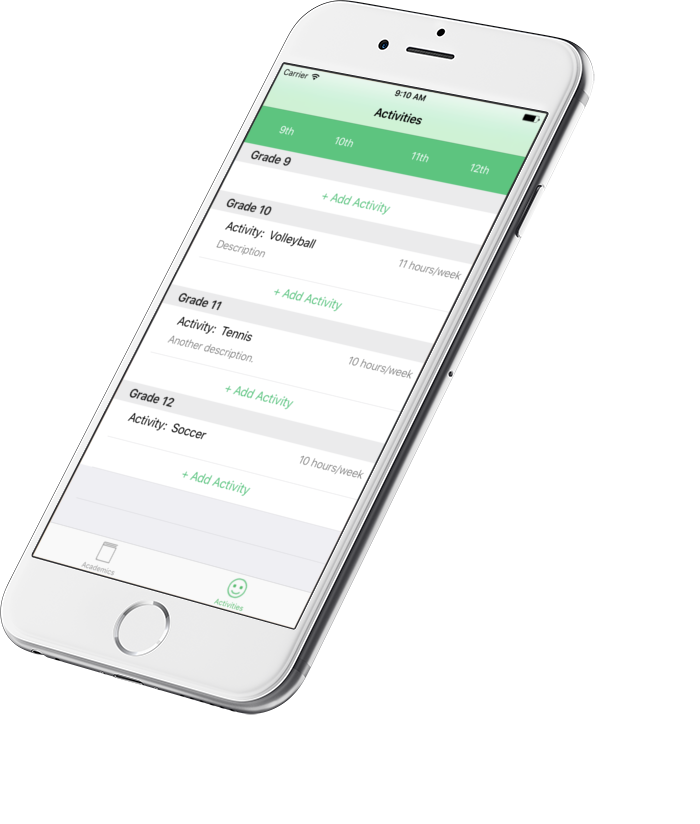
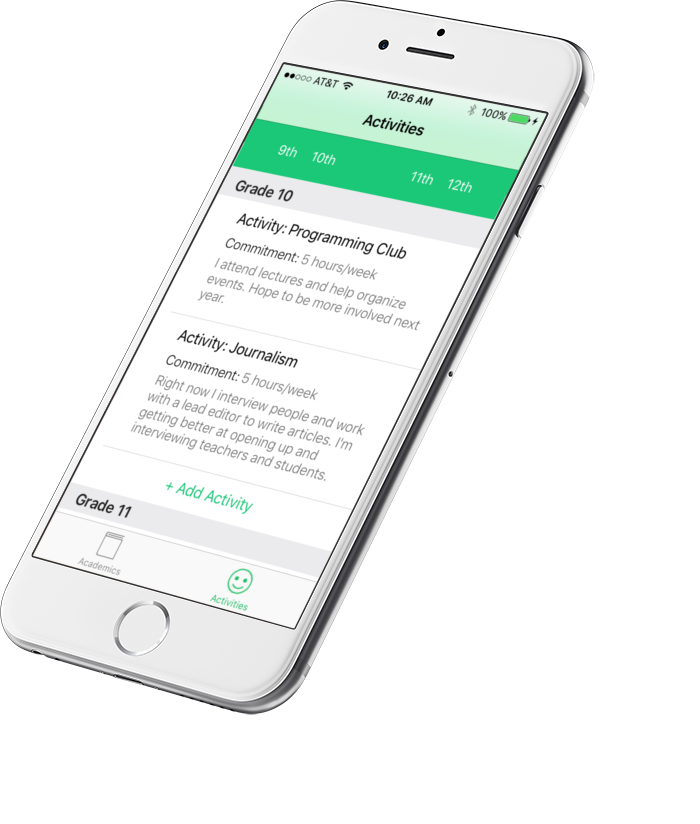
Rev 0.005
Commented all irrelevant sections and update all screenshots.

diff --git a/index-pq.html b/index-pq.html
@@ -166,9 +166,9 @@
 						
 						<div class='screens-mockup' >
 							<img class='phone wow fadeInUp' data-wow-duration='.8s' data-wow-delay='.2s' src='img/mockup2-phone.png' alt>
-							<img class='screen wow fadeIn' data-wow-delay='1s' src='img/mockup2-screen1.png' alt>
-							<img class='screen wow fadeIn' data-wow-delay='1.4s' src='img/mockup2-screen2.png' alt>
-							<img class='screen wow fadeIn' data-wow-delay='1.8s' src='img/mockup2-screen3.png' alt>
+							<img class='screen wow fadeIn' data-wow-delay='1s' src='img/mockup2-pq-screen1.png' alt>
+							<img class='screen wow fadeIn' data-wow-delay='1.4s' src='img/mockup2-pq-screen2.png' alt>
+							<img class='screen wow fadeIn' data-wow-delay='1.8s' src='img/mockup2-pq-screen3.png' alt>
 						</div>
 						
 					</div>
@@ -177,13 +177,12 @@
 						
 						<div class='mockup-text' >
 							
-							<span class='font-alt wow fadeInUp' data-wow-delay='.2s' >Private & </span>
+							<span class='font-alt wow fadeInUp' data-wow-delay='.2s' >Convenient & </span>
 							
 							<h2 class='wow fadeInUp' data-wow-delay='.4s' >Comprehensive</h2>
 							
 							<p class='wow fadeInUp' data-wow-delay='.6s' >
-								Keep records of your academic and extracurricular activities as a student. Plan your courses to meet your graduation requirements. High school students will find this data very useful when preparing for their college application.
-								Password protected access to your data for privacy.
+								Keep records of your academic and extracurricular activities as a high-school student. Plan your courses to meet your graduation requirements. Students will find this data very useful when preparing for their college application. It's easy to add new course or new activity.
 							</p>
 							
 							<!-- <a href='#' class='btn-custom arrow-btn wow fadeInUp' data-wow-delay='.8s' >
@@ -202,6 +201,7 @@
 		<!--======================================================
 			Mockups Section 2
 		======================================================-->
+		<!--
 		<section id='features-2' class='mockup-section section-2' >
 			<div class='container' >
 				<div class='row' >
@@ -218,18 +218,18 @@
 						
 						<div class='mockup-text' >
 							
-							<span class='font-alt wow fadeInUp' data-wow-delay='.2s' >Convenient & </span>
+							<span class='font-alt wow fadeInUp' data-wow-delay='.2s' >Private & </span>
 							
 							<h2 class='wow fadeInUp' data-wow-delay='.4s' >Always Available</h2>
 							
 							<p class='wow fadeInUp' data-wow-delay='.6s' >
-								Your data travels with you in your mobile device. Your activity records can be entered and accessed anytime and anywhere with just few taps.
+								Your data is password protected for privacy. Your data travels with you in your mobile device. Your activity records can be entered and accessed anytime and anywhere with just few taps.
 							</p>
 							
-							<!-- <a href='#' class='btn-custom arrow-btn wow fadeInUp' data-wow-delay='.8s' >
+							<a href='#' class='btn-custom arrow-btn wow fadeInUp' data-wow-delay='.8s' >
 								Learn More
 								<span class='arrow' ></span>
-							</a> -->
+							</a>
 							
 						</div>
 						
@@ -237,10 +237,12 @@
 				</div>
 			</div>
 		</section>
-		
+		-->
+
 		<!--======================================================
 			Features Section
 		======================================================-->
+		<!--
 		<section id='features-3' class='features-section' >
 			<div class='container' >
 				
@@ -289,7 +291,6 @@
 								<h4>Diary</h4>
 								<p>
 									Add your personal journal entries associated with each activities.
-									<!-- Text and photo entry are supported -->
 								</p>
 							</div>
 							
@@ -305,7 +306,8 @@
 				</div>
 			</div>
 		</section>
-		
+		-->
+
 		<!--======================================================
 			Screenshots Section
 		======================================================-->
@@ -323,54 +325,45 @@
 					
 					<li>
 						<figure>
-							<img src='img/screens/1.jpg' alt>
+							<img src='img/screens/pq-addcourse1.jpg' alt>
 							<div class='overlay' >
-								<a href='img/screens/1.jpg' class='view-btn' ></a>
+								<a href='img/screens/pq-addcourse1.jpg' class='view-btn' ></a>
 							</div>
 						</figure>
 					</li>
 					
 					<li>
 						<figure>
-							<img src='img/screens/2.jpg' alt>
+							<img src='img/screens/pq-academics1.jpg' alt>
 							<div class='overlay' >
-								<a href='img/screens/2.jpg' class='view-btn' ></a>
+								<a href='img/screens/pq-academics1.jpg' class='view-btn' ></a>
 							</div>
 						</figure>
 					</li>
 					
 					<li>
 						<figure>
-							<img src='img/screens/3.jpg' alt>
+							<img src='img/screens/pq-addactivity1.jpg' alt>
 							<div class='overlay' >
-								<a href='img/screens/3.jpg' class='view-btn' ></a>
+								<a href='img/screens/pq-addactivity1.jpg' class='view-btn' ></a>
 							</div>
 						</figure>
 					</li>
 					
 					<li>
 						<figure>
-							<img src='img/screens/4.jpg' alt>
+							<img src='img/screens/pq-activities1.jpg' alt>
 							<div class='overlay' >
-								<a href='img/screens/4.jpg' class='view-btn' ></a>
+								<a href='img/screens/pq-activities1.jpg' class='view-btn' ></a>
 							</div>
 						</figure>
 					</li>
 					
 					<li>
 						<figure>
-							<img src='img/screens/5.jpg' alt>
+							<img src='img/screens/pq-errorcheck1.jpg' alt>
 							<div class='overlay' >
-								<a href='img/screens/5.jpg' class='view-btn' ></a>
-							</div>
-						</figure>
-					</li>
-					
-					<li>
-						<figure>
-							<img src='img/screens/6.jpg' alt>
-							<div class='overlay' >
-								<a href='img/screens/6.jpg' class='view-btn' ></a>
+								<a href='img/screens/pq-errorcheck1.jpg' class='view-btn' ></a>
 							</div>
 						</figure>
 					</li>
@@ -382,6 +375,7 @@
 		<!--======================================================
 			Video Section
 		======================================================-->
+		<!--
 		<section id='video' class='video-section parallax' data-parallax='scroll' data-image-src='img/bg-mockup.jpg' >
 			<div class='container' >
 				<div class='row' >
@@ -405,11 +399,12 @@
 				</div>
 			</div>
 		</section>
-		
+		-->
 		
 		<!--======================================================
 			More Features Section (TBD for future ...)
 		======================================================-->
+		<!--
 		<section id='features-4' class='features-2-section' >
 			<div class='container' >
 				
@@ -534,6 +529,7 @@
 				
 			</div>
 		</section>
+		-->
 		
 		<!--======================================================
 			Pricing Section
@@ -745,14 +741,15 @@
 				<!--======================================================
 					Newsletter Section
 				======================================================-->
+				<!--
 				<div class='newsletter' >
 					
 					<h4 class='wow fadeInUp' data-wow-delay='.2s' >Stay Updated</h4>
 					
 					<div class='row' >
 						<div class='col-md-8 col-md-offset-2' >
-							
-							<!-- Newsletter Form -->
+							-->
+							<!-- Newsletter Form
 							<form class='newsletter-form' method='post' action='http://example.us11.list-manage.com/subscribe/post?u=5e52e42b5fdb949fb5ed82047&id=826e149b9d' >
 								
 								<div class='subscribe-input wow fadeInUp' data-wow-delay='.4s' >
@@ -766,9 +763,9 @@
 							</form>
 						</div>
 					</div>
-					
 				</div>
-				
+				-->
+
 			</div>
 		</section>
 		
@@ -847,6 +844,7 @@
 					<div class='col-sm-6' >
 						
 						<!-- Footer Social Icons -->
+						<!-- 
 						<ul class='footer-social wow fadeInRight' data-wow-delay='.2s' >
 							<li>
 								<a href='#' >
@@ -869,6 +867,7 @@
 								</a>
 							</li>
 						</ul>
+						-->
 						
 					</div>
 				</div>
@@ -890,14 +889,15 @@
 		<script src='js/validator.min.js' ></script>
 		<script src='js/smooth-scroll.min.js' ></script>
 		<script src='js/script.js' ></script>
-		<!-- the following code is incompatible with particle background
+		<!--
 		<script>
-			/*=========================================================================
+			/*====================================================================
 				YTPlayer Plugin Initialization
-			=========================================================================*/
+			====================================================================*/
 			$(function(){
 				$(".player").YTPlayer();
 			});
-		</script> -->
+		</script>
+		-->
 	</body>
 </html>

diff --git a/index-video.html b/index-video.html
@@ -147,7 +147,7 @@
 		</section>
 		
 		<!--======================================================
-			Mockup Section
+			Mockup Section 1
 		======================================================-->
 		<!--
 		<section id='features-1' class='mockup-section' >
@@ -358,15 +358,6 @@
 						</figure>
 					</li>
 					
-					<li>
-						<figure>
-							<img src='img/screens/6.jpg' alt>
-							<div class='overlay' >
-								<a href='img/screens/6.jpg' class='view-btn' ></a>
-							</div>
-						</figure>
-					</li>
-					
 				</ul>
 			</div>
 		</section>
@@ -401,10 +392,10 @@
 				</div>
 			</div>
 		</section>
+
 		<!--======================================================
 			Launch Plan Section
 		======================================================-->
-		
 		<section id='pricing' class='pricing-section' >
 			<div class='container' >
 				
@@ -901,9 +892,9 @@
 		<script src='js/smooth-scroll.min.js' ></script>
 		<script src='js/script.js' ></script>
 		<script>
-			/*=========================================================================
+			/*====================================================================
 				YTPlayer Plugin Initialization
-			=========================================================================*/
+			====================================================================*/
 			$(function(){
 				$(".player").YTPlayer();
 			});

diff --git a/css/style.css b/css/style.css
@@ -534,7 +534,7 @@ body.loaded #preloader{
 	height:1px;
 }
 .screenshots-slider li:hover .overlay{
-	opacity:1;
+	opacity:0.6;
 }
 .owl-controls{
 	margin-top:50px;

diff --git a/mail.php b/mail.php
@@ -26,7 +26,7 @@
 		
 		
 		//Place your Email Here
-		$recipient = "your_mail@your_domain.com";
+		$recipient = "mmtswllc@gmail.com";
 		
 		$mailheader = "From: $email \r\n";
 		
